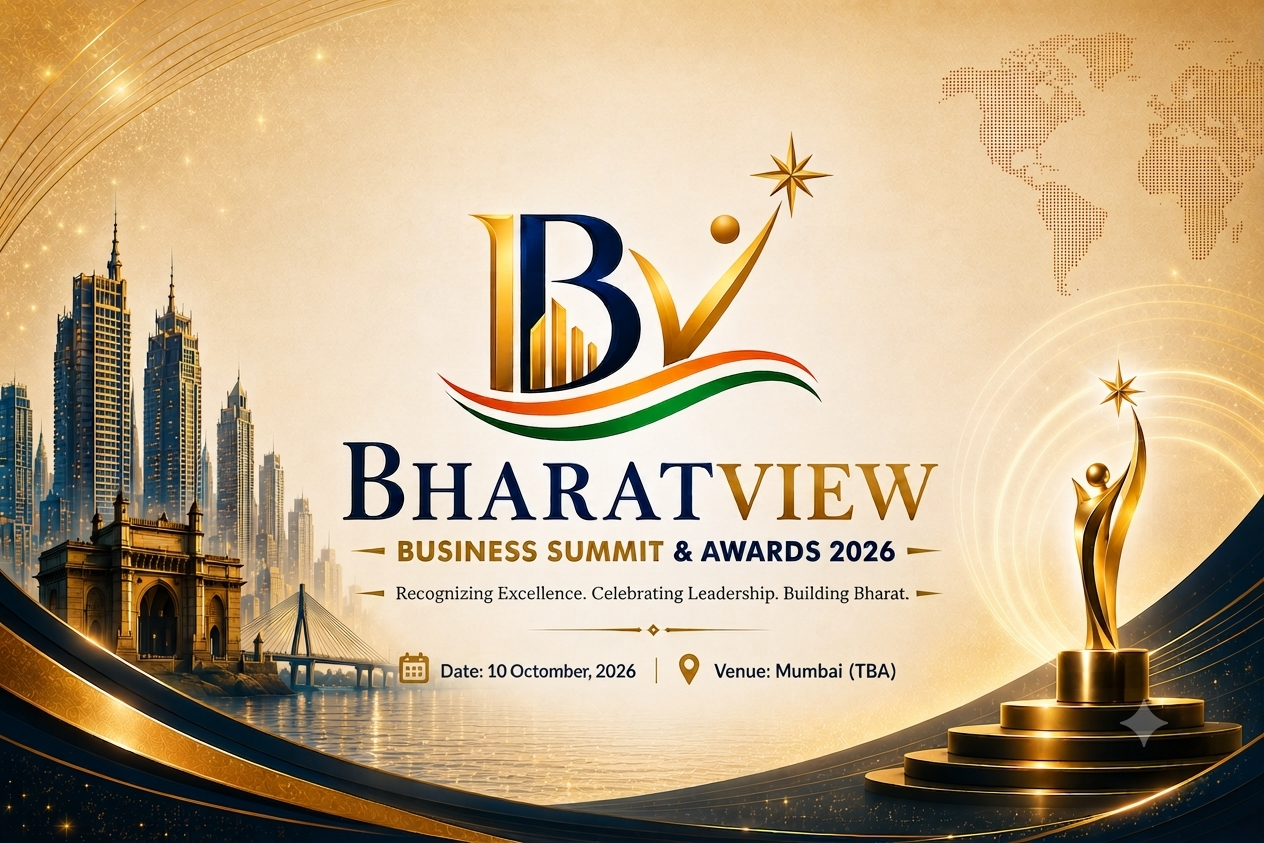
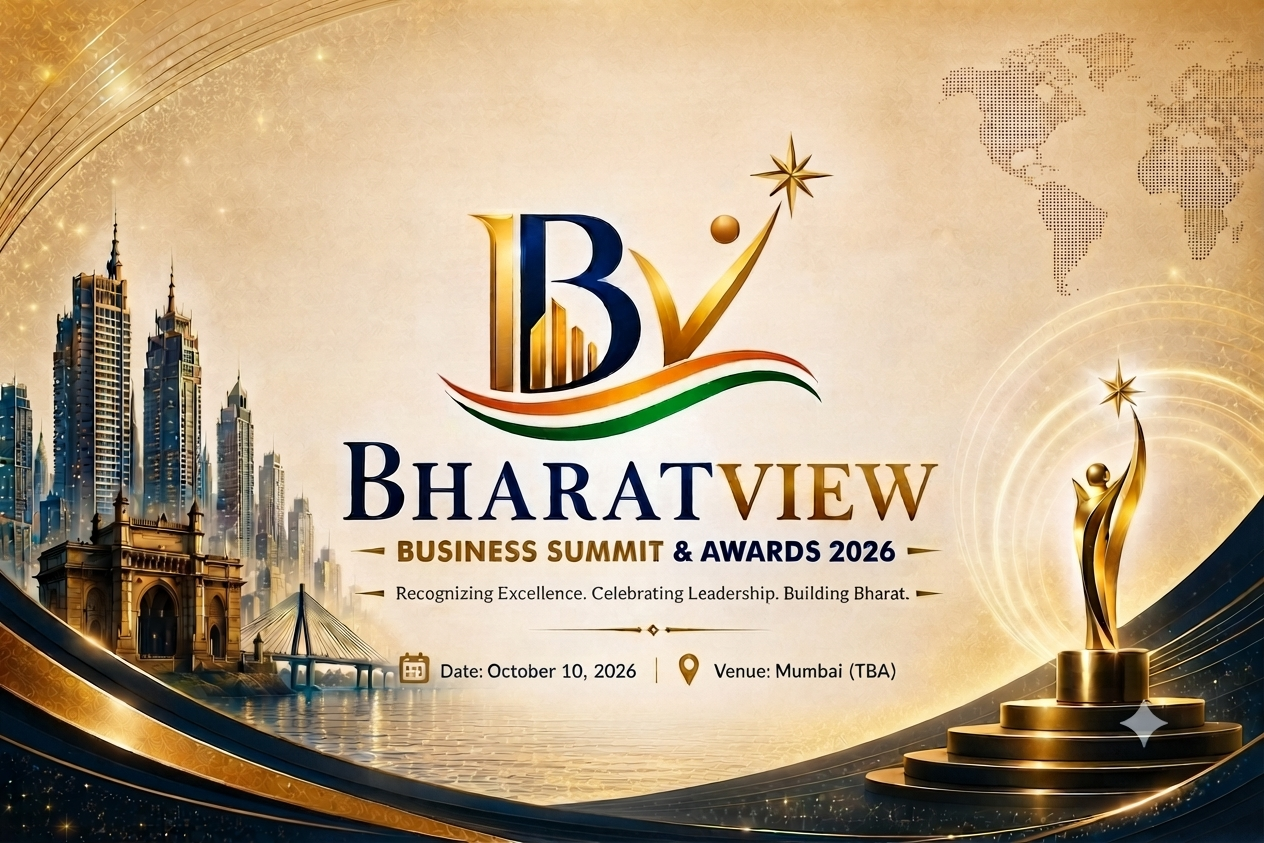
added the change

diff --git a/src/components/BharatViewNav.tsx b/src/components/BharatViewNav.tsx
@@ -1,6 +1,6 @@
 import React, { useEffect, useState } from 'react'
 import { Button } from 'antd'
-import { HomeOutlined, MenuOutlined, CloseOutlined } from '@ant-design/icons'
+import { HomeOutlined, MenuOutlined, CloseOutlined, DownOutlined } from '@ant-design/icons'
 import { useLocation, useNavigate } from 'react-router-dom'
 import { ALIF_LOGO_DARK, BHARAT_ROUTES } from './bharatview/constants'
 import { BHARAT_NAV_PAGES } from './bharatview/bharatPageConfig'
@@ -10,11 +10,13 @@ const BharatViewNav: React.FC = () => {
   const { pathname } = useLocation()
   const [mobileOpen, setMobileOpen] = useState(false)
   const [scrolled, setScrolled] = useState(false)
+  const [openDropdown, setOpenDropdown] = useState<string | null>(null)
 
   const isPoster = pathname === BHARAT_ROUTES.home
 
   useEffect(() => {
     setMobileOpen(false)
+    setOpenDropdown(null)
   }, [pathname])
 
   useEffect(() => {
@@ -27,6 +29,13 @@ const BharatViewNav: React.FC = () => {
     window.addEventListener('scroll', onScroll)
     return () => window.removeEventListener('scroll', onScroll)
   }, [isPoster, pathname])
+
+  useEffect(() => {
+    if (!openDropdown) return
+    const close = () => setOpenDropdown(null)
+    window.addEventListener('click', close)
+    return () => window.removeEventListener('click', close)
+  }, [openDropdown])
 
   const isActive = (to: string) => pathname === to
 
@@ -82,17 +91,81 @@ const BharatViewNav: React.FC = () => {
         />
       </button>
 
-      <nav className="hidden lg:flex items-center gap-0.5 xl:gap-1 flex-1 justify-center min-w-0 overflow-x-auto bharat-nav-scroll px-1">
-        {BHARAT_NAV_PAGES.map((item) => (
-          <button
-            key={item.to}
-            type="button"
-            onClick={() => navigate(item.to)}
-            className={linkClass(isActive(item.to))}
-          >
-            {item.label}
-          </button>
-        ))}
+      <nav className="hidden lg:flex items-center gap-0.5 xl:gap-1 flex-1 justify-center min-w-0 overflow-visible bharat-nav-scroll px-1">
+        {BHARAT_NAV_PAGES.map((item) =>
+          item.children ? (
+            <div
+              key={item.to}
+              className="relative shrink-0"
+              onMouseEnter={() => setOpenDropdown(item.to)}
+              onMouseLeave={() => setOpenDropdown(null)}
+            >
+              <button
+                type="button"
+                onClick={(e) => {
+                  e.stopPropagation()
+                  setOpenDropdown((current) => (current === item.to ? null : item.to))
+                }}
+                className={`${linkClass(
+                  isActive(item.to) || item.children.some((child) => isActive(child.to))
+                )} inline-flex items-center gap-1`}
+                aria-expanded={openDropdown === item.to}
+                aria-haspopup="true"
+              >
+                {item.label}
+                <DownOutlined className="!text-[9px]" />
+              </button>
+
+              {openDropdown === item.to && (
+                <div
+                  className="absolute left-0 top-full z-[60] mt-1 min-w-[16rem] rounded-xl border border-slate-200 bg-white py-1.5 shadow-xl"
+                  onClick={(e) => e.stopPropagation()}
+                >
+                  <button
+                    type="button"
+                    onClick={() => {
+                      navigate(item.to)
+                      setOpenDropdown(null)
+                    }}
+                    className={`block w-full px-4 py-2.5 text-left text-sm transition-colors ${
+                      isActive(item.to)
+                        ? 'bg-[var(--bharat-primary)]/10 font-semibold text-[var(--bharat-primary)]'
+                        : 'text-slate-700 hover:bg-slate-50 hover:text-[var(--bharat-primary)]'
+                    }`}
+                  >
+                    {item.label}
+                  </button>
+                  {item.children.map((child) => (
+                    <button
+                      key={child.to}
+                      type="button"
+                      onClick={() => {
+                        navigate(child.to)
+                        setOpenDropdown(null)
+                      }}
+                      className={`block w-full px-4 py-2.5 text-left text-sm transition-colors ${
+                        isActive(child.to)
+                          ? 'bg-[var(--bharat-primary)]/10 font-semibold text-[var(--bharat-primary)]'
+                          : 'text-slate-700 hover:bg-slate-50 hover:text-[var(--bharat-primary)]'
+                      }`}
+                    >
+                      Leaders Under 45 Awards 2026
+                    </button>
+                  ))}
+                </div>
+              )}
+            </div>
+          ) : (
+            <button
+              key={item.to}
+              type="button"
+              onClick={() => navigate(item.to)}
+              className={linkClass(isActive(item.to))}
+            >
+              {item.label}
+            </button>
+          )
+        )}
       </nav>
 
       <div className="hidden lg:flex items-center shrink-0">{backButton}</div>
@@ -120,17 +193,31 @@ const BharatViewNav: React.FC = () => {
       }`}
     >
       {BHARAT_NAV_PAGES.map((item) => (
-        <button
-          key={item.to}
-          type="button"
-          onClick={() => {
-            navigate(item.to)
-            setMobileOpen(false)
-          }}
-          className={`${linkClass(isActive(item.to))} w-full text-left text-sm`}
-        >
-          {item.label}
-        </button>
+        <React.Fragment key={item.to}>
+          <button
+            type="button"
+            onClick={() => {
+              navigate(item.to)
+              setMobileOpen(false)
+            }}
+            className={`${linkClass(isActive(item.to))} w-full text-left text-sm`}
+          >
+            {item.label}
+          </button>
+          {item.children?.map((child) => (
+            <button
+              key={child.to}
+              type="button"
+              onClick={() => {
+                navigate(child.to)
+                setMobileOpen(false)
+              }}
+              className={`${linkClass(isActive(child.to))} w-full text-left text-sm !pl-6`}
+            >
+              Leaders Under 45 Awards 2026
+            </button>
+          ))}
+        </React.Fragment>
       ))}
       <Button
         type={isPoster ? 'default' : 'primary'}

diff --git a/src/pages/BharatViewPages.tsx b/src/pages/BharatViewPages.tsx
@@ -8,7 +8,7 @@ import BharatViewWhoShouldAttend from '../components/bharatview/BharatViewWhoSho
 import BharatViewAwards from '../components/bharatview/BharatViewAwards'
 import BharatViewContact from '../components/bharatview/BharatViewContact'
 import BharatViewPartners from '../components/bharatview/BharatViewPartners'
-import { BHARAT_NAV_PAGES } from '../components/bharatview/bharatPageConfig'
+import { BHARAT_NAV_PAGES, BHARAT_LEADERS_UNDER_45_PAGE } from '../components/bharatview/bharatPageConfig'
 import { BHARAT_ROUTES } from '../components/bharatview/constants'
 
 const SoonPageLayout: React.FC<(typeof BHARAT_NAV_PAGES)[number]> = ({
@@ -62,6 +62,22 @@ export const BharatViewAwardsPage: React.FC = () => (
 
 export const BharatViewLeadershipAwardsPage: React.FC = () => (
   <SoonPageLayout {...BHARAT_NAV_PAGES[5]} />
+)
+
+const LEADERS_UNDER_45_POSTER = '/images/leadersUnder45Poster.jpeg'
+
+export const BharatViewLeadersUnder45AwardsPage: React.FC = () => (
+  <BharatViewLayout>
+    <div className="pt-24 pb-16 px-4 sm:px-6 bg-[var(--bharat-bg)] min-h-screen">
+      <div className="max-w-3xl mx-auto">
+        <img
+          src={LEADERS_UNDER_45_POSTER}
+          alt={`${BHARAT_LEADERS_UNDER_45_PAGE.title} — 10th October 2026, Mumbai`}
+          className="w-full h-auto rounded-2xl shadow-2xl ring-1 ring-black/10"
+        />
+      </div>
+    </div>
+  </BharatViewLayout>
 )
 
 export const BharatViewPartnersPage: React.FC = () => (

diff --git a/src/components/bharatview/bharatPageConfig.tsx b/src/components/bharatview/bharatPageConfig.tsx
@@ -5,6 +5,7 @@ import {
   CrownOutlined,
   MailOutlined,
   ReadOutlined,
+  StarOutlined,
   TeamOutlined,
   TrophyOutlined,
   UsergroupAddOutlined
@@ -20,6 +21,17 @@ export interface BharatPageConfig {
   subtitle: string
   description: string
   icon: React.ReactNode
+  children?: BharatPageConfig[]
+}
+
+export const BHARAT_LEADERS_UNDER_45_PAGE: BharatPageConfig = {
+  label: 'Leaders Under 45 Awards 2026',
+  to: BHARAT_ROUTES.leadersUnder45Awards,
+  title: 'Leaders Under 45 Awards 2026',
+  subtitle: 'Celebrating young leaders shaping the future of business and industry.',
+  description:
+    'Details about the Leaders Under 45 Awards 2026, categories, and nomination guidelines will be published here soon.',
+  icon: <StarOutlined className={iconClass} />
 }
 
 export const BHARAT_NAV_PAGES: BharatPageConfig[] = [
@@ -75,7 +87,8 @@ export const BHARAT_NAV_PAGES: BharatPageConfig[] = [
     subtitle: 'Honouring visionary leaders driving change and innovation.',
     description:
       'Information about the BharatView Leadership Awards and distinguished honourees will be available shortly.',
-    icon: <CrownOutlined className={iconClass} />
+    icon: <CrownOutlined className={iconClass} />,
+    children: [BHARAT_LEADERS_UNDER_45_PAGE]
   },
   {
     label: 'Partners',

diff --git a/src/App.tsx b/src/App.tsx
@@ -12,6 +12,7 @@ import {
   BharatViewSpeakersPage,
   BharatViewAwardsPage,
   BharatViewLeadershipAwardsPage,
+  BharatViewLeadersUnder45AwardsPage,
   BharatViewPartnersPage,
   BharatViewContactPage
 } from './pages/BharatViewPages'
@@ -31,6 +32,7 @@ function App() {
       <Route path="/bharatview-summit-2026/speakers" element={<BharatViewSpeakersPage />} />
       <Route path="/bharatview-summit-2026/awards" element={<BharatViewAwardsPage />} />
       <Route path="/bharatview-summit-2026/leadership-awards" element={<BharatViewLeadershipAwardsPage />} />
+      <Route path="/bharatview-summit-2026/leaders-under-45-awards-2026" element={<BharatViewLeadersUnder45AwardsPage />} />
       <Route path="/bharatview-summit-2026/partners" element={<BharatViewPartnersPage />} />
       <Route path="/bharatview-summit-2026/contact" element={<BharatViewContactPage />} />
       <Route path="/bharatview-summit-2026/event" element={<Navigate to="/bharatview-summit-2026/overview" replace />} />

diff --git a/src/components/bharatview/constants.ts b/src/components/bharatview/constants.ts
@@ -14,6 +14,7 @@ export const BHARAT_ROUTES = {
   speakers: '/bharatview-summit-2026/speakers',
   awards: '/bharatview-summit-2026/awards',
   leadershipAwards: '/bharatview-summit-2026/leadership-awards',
+  leadersUnder45Awards: '/bharatview-summit-2026/leaders-under-45-awards-2026',
   partners: '/bharatview-summit-2026/partners',
   contact: '/bharatview-summit-2026/contact'
 } as const

diff --git a/src/index.css b/src/index.css
@@ -980,6 +980,7 @@
   box-shadow: 0 4px 24px rgba(15, 23, 42, 0.08);
   backdrop-filter: blur(16px);
   -webkit-backdrop-filter: blur(16px);
+  overflow: visible;
 }
 
 .bharat-nav-shell--light {